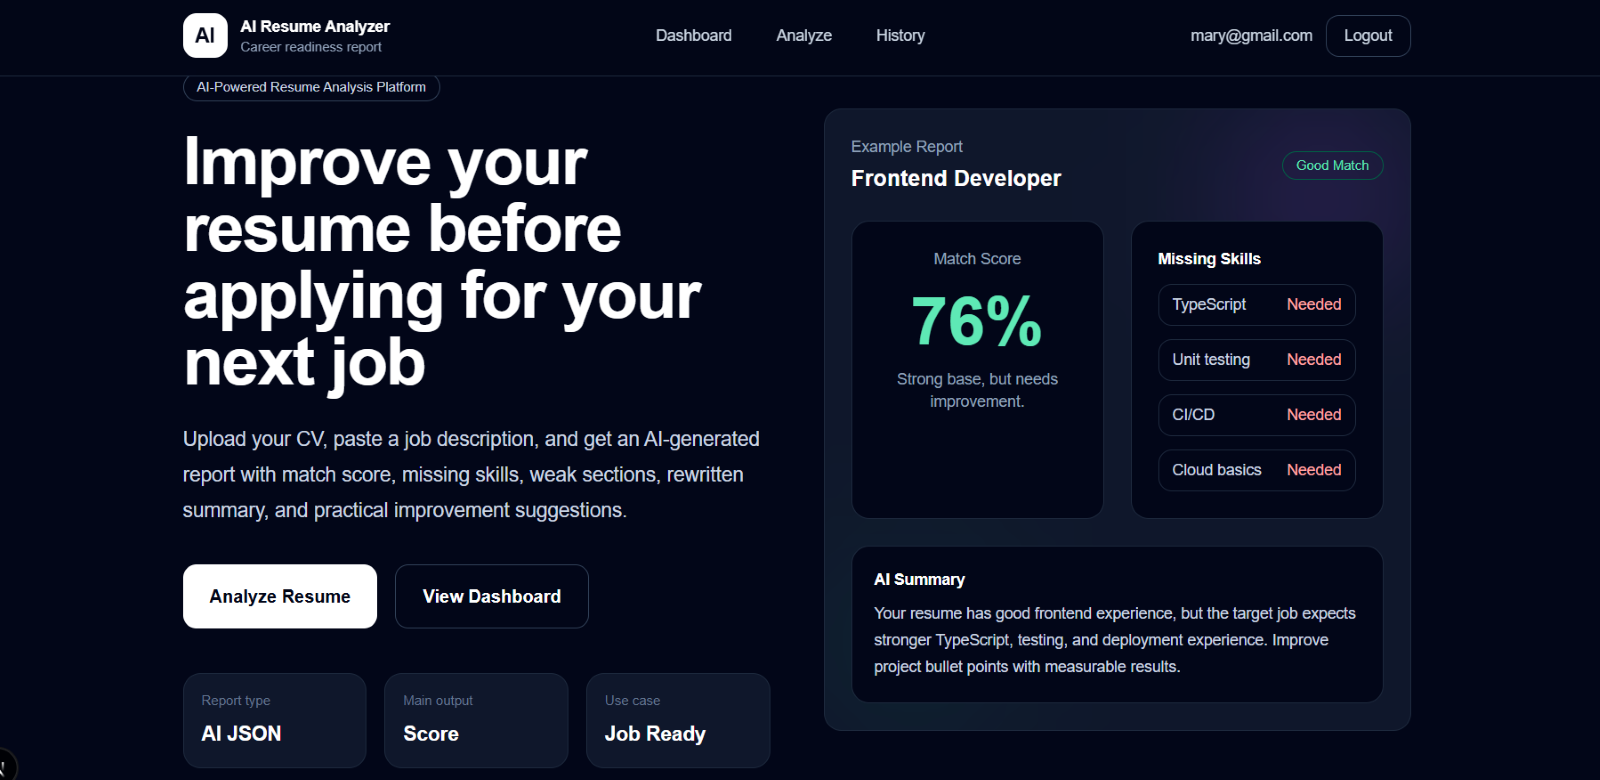
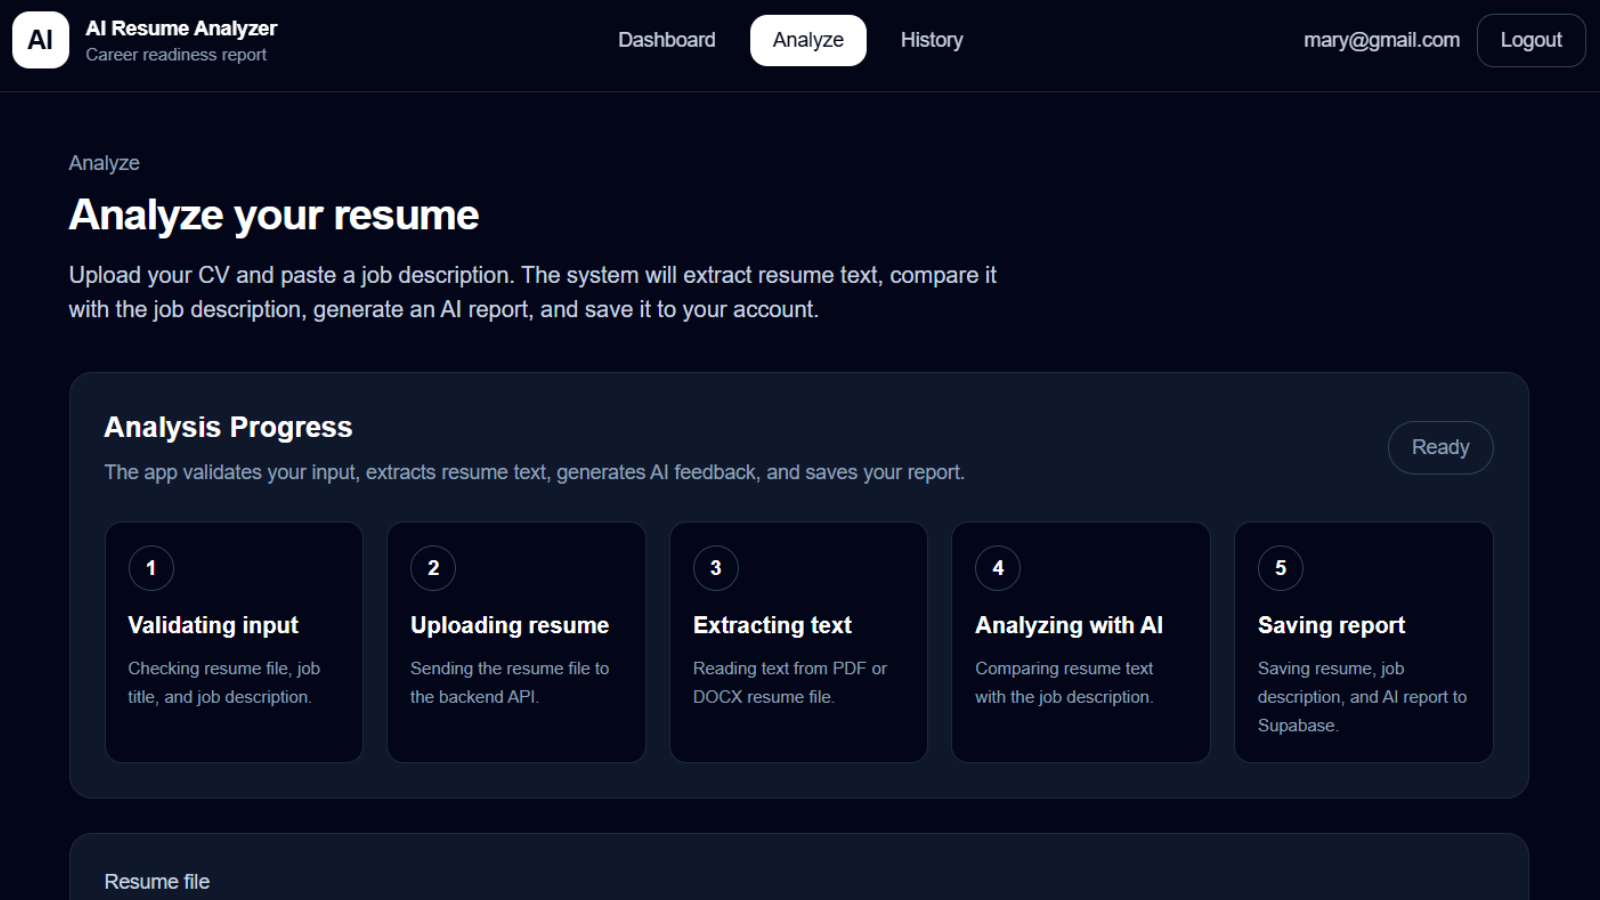
Update project preview images

diff --git a/src/data/focusAreas.ts b/src/data/focusAreas.ts
@@ -2,21 +2,21 @@ import type { FocusArea } from "@/types/portfolio";
 
 export const focusAreas: FocusArea[] = [
   {
-    title: "AI & Machine Learning",
+    title: "Machine Learning",
     icon: "neural",
     description:
-      "Building predictive models, evaluating performance, and applying machine learning to real-world problems.",
+      "Building predictive models, preparing datasets, evaluating model performance, and applying ML to practical problems.",
   },
   {
-    title: "Data-Driven Applications",
+    title: "Data Science & Analytics",
     icon: "database",
     description:
-      "Creating applications that combine data pipelines, analytics, dashboards, and decision support.",
+      "Exploring data, cleaning datasets, creating insights, and using visualizations to support better decisions.",
   },
   {
-    title: "End-to-End Systems",
+    title: "AI-Powered Applications",
     icon: "layers",
     description:
-      "Designing full-stack systems from frontend interfaces to backend APIs, databases, and deployment.",
+      "Developing practical applications that combine frontend interfaces, backend APIs, AI services, and deployment.",
   },
 ];

diff --git a/src/data/projects.ts b/src/data/projects.ts
@@ -86,6 +86,6 @@ export const projects: Project[] = [
 
   demoUrl: "",
 
-  image: "/projects/ai-resume-analyzer.png"
+  image: "/images/projects/ai-resume-analyzer.png"
 }
 ];
